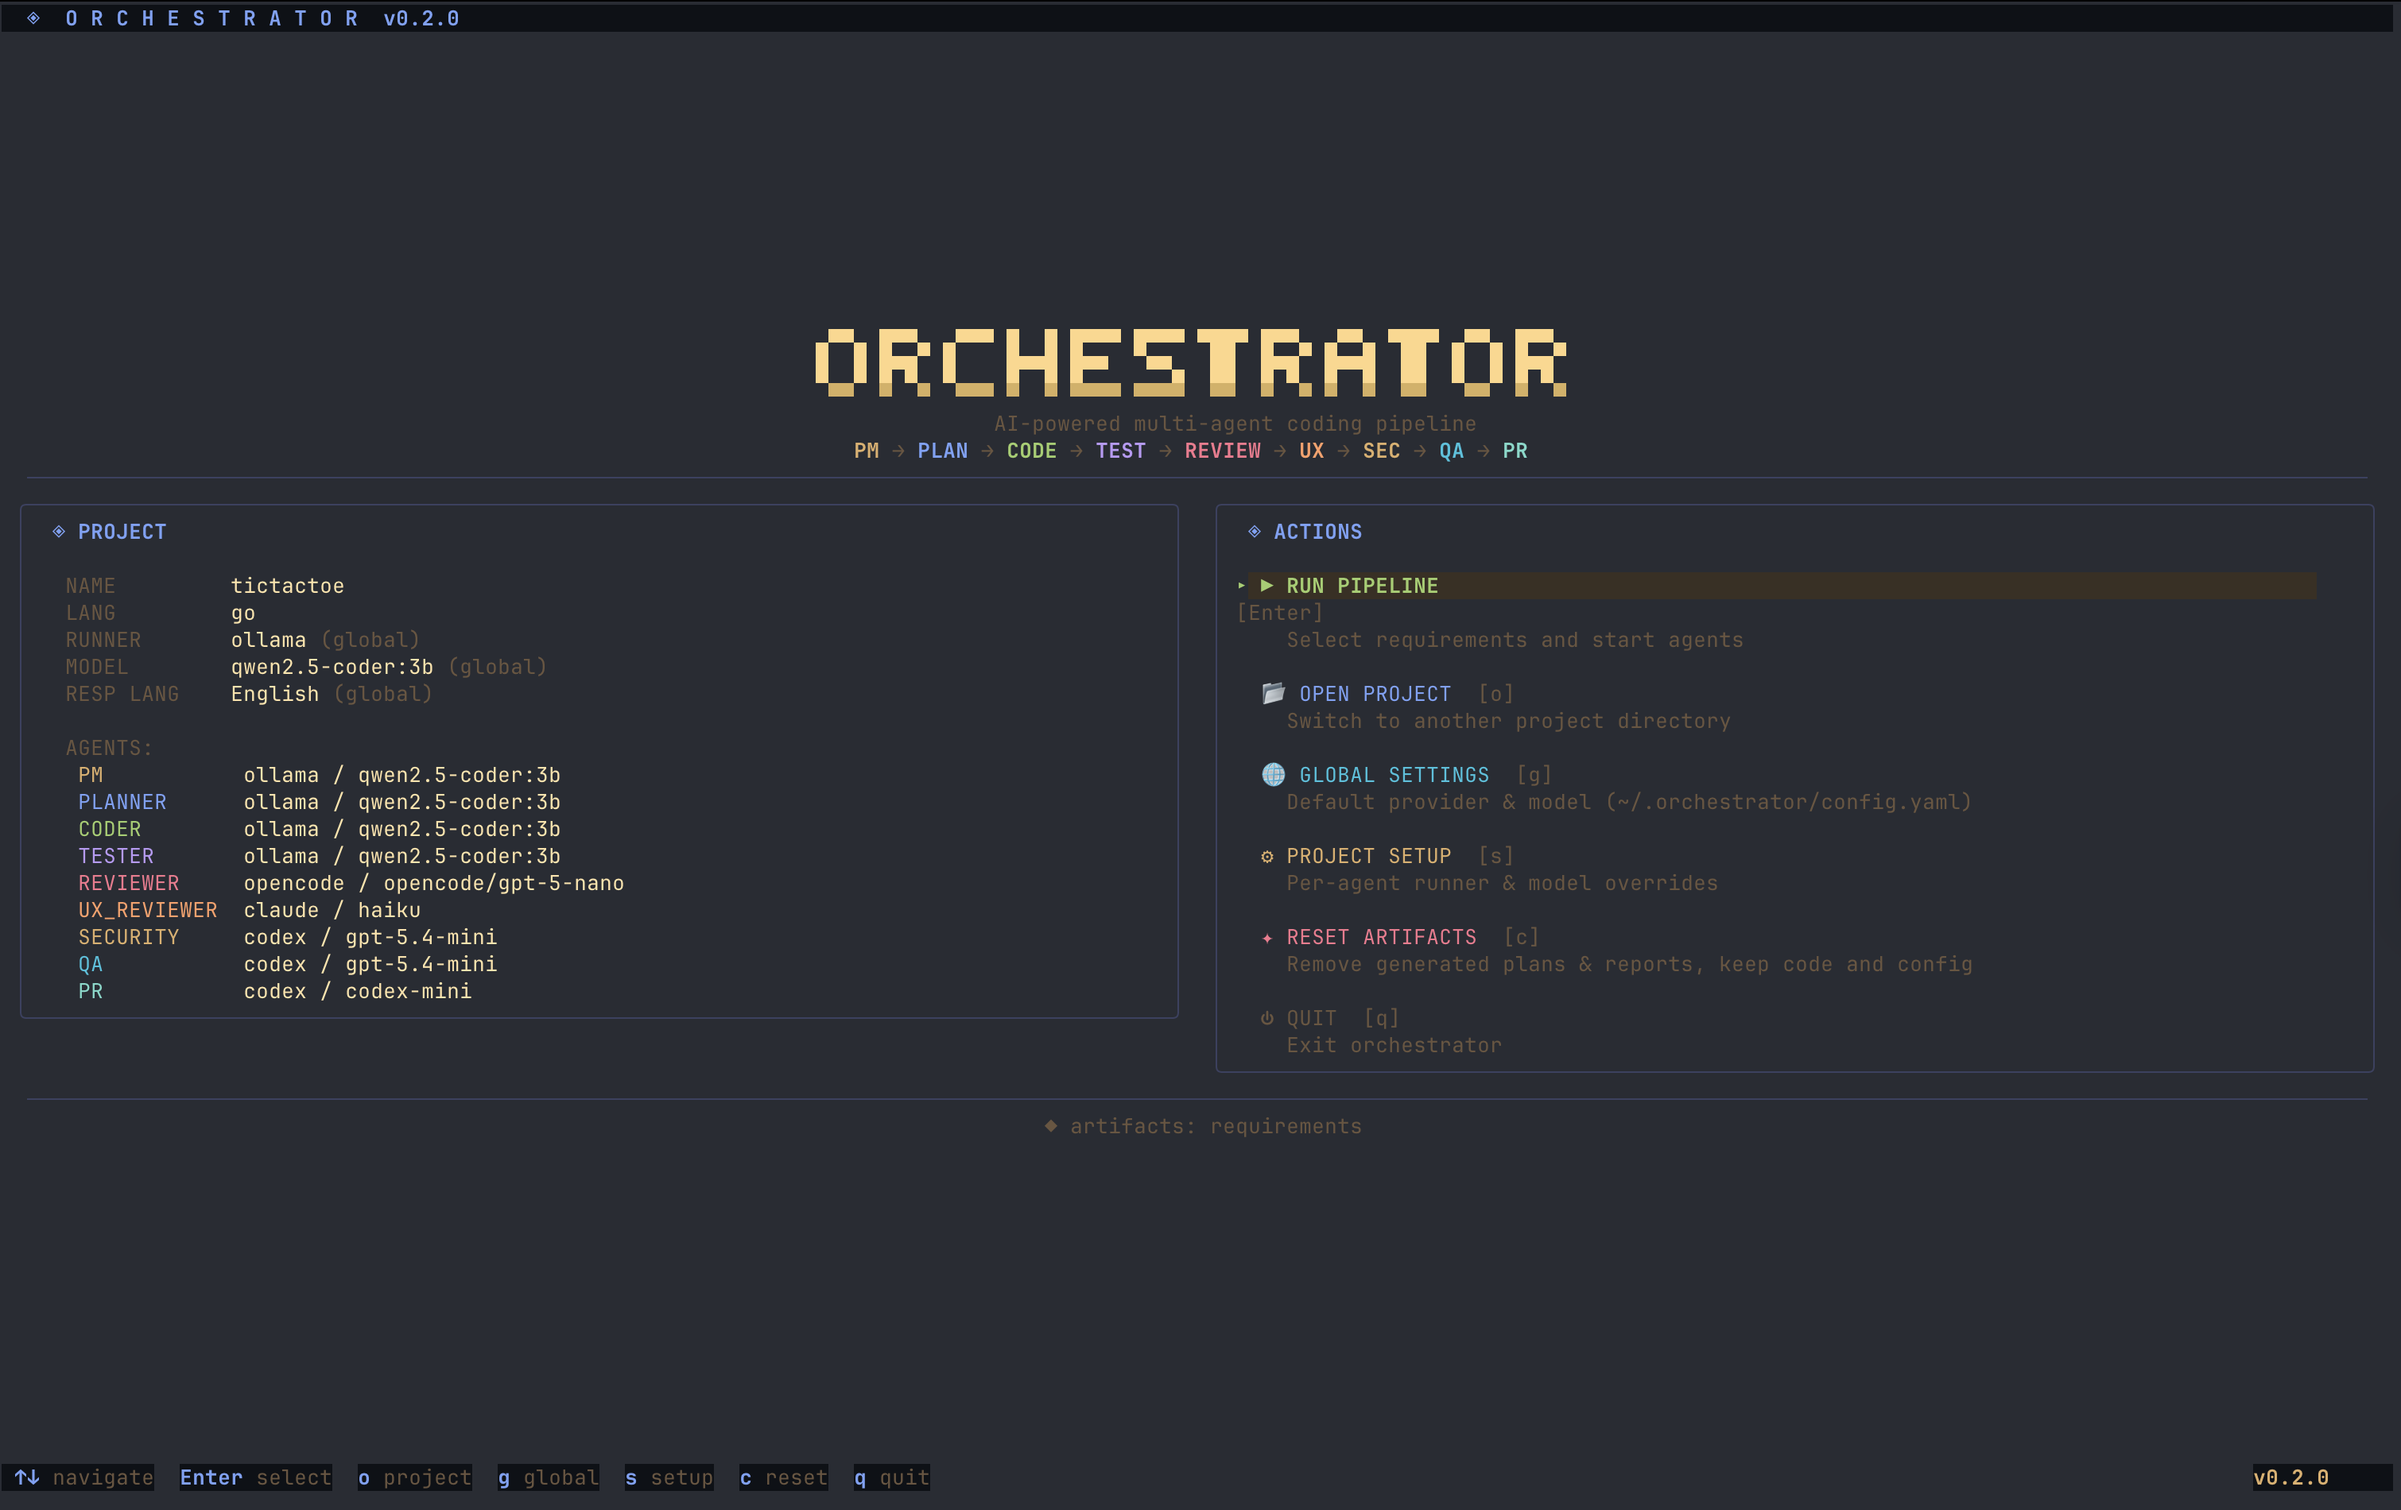
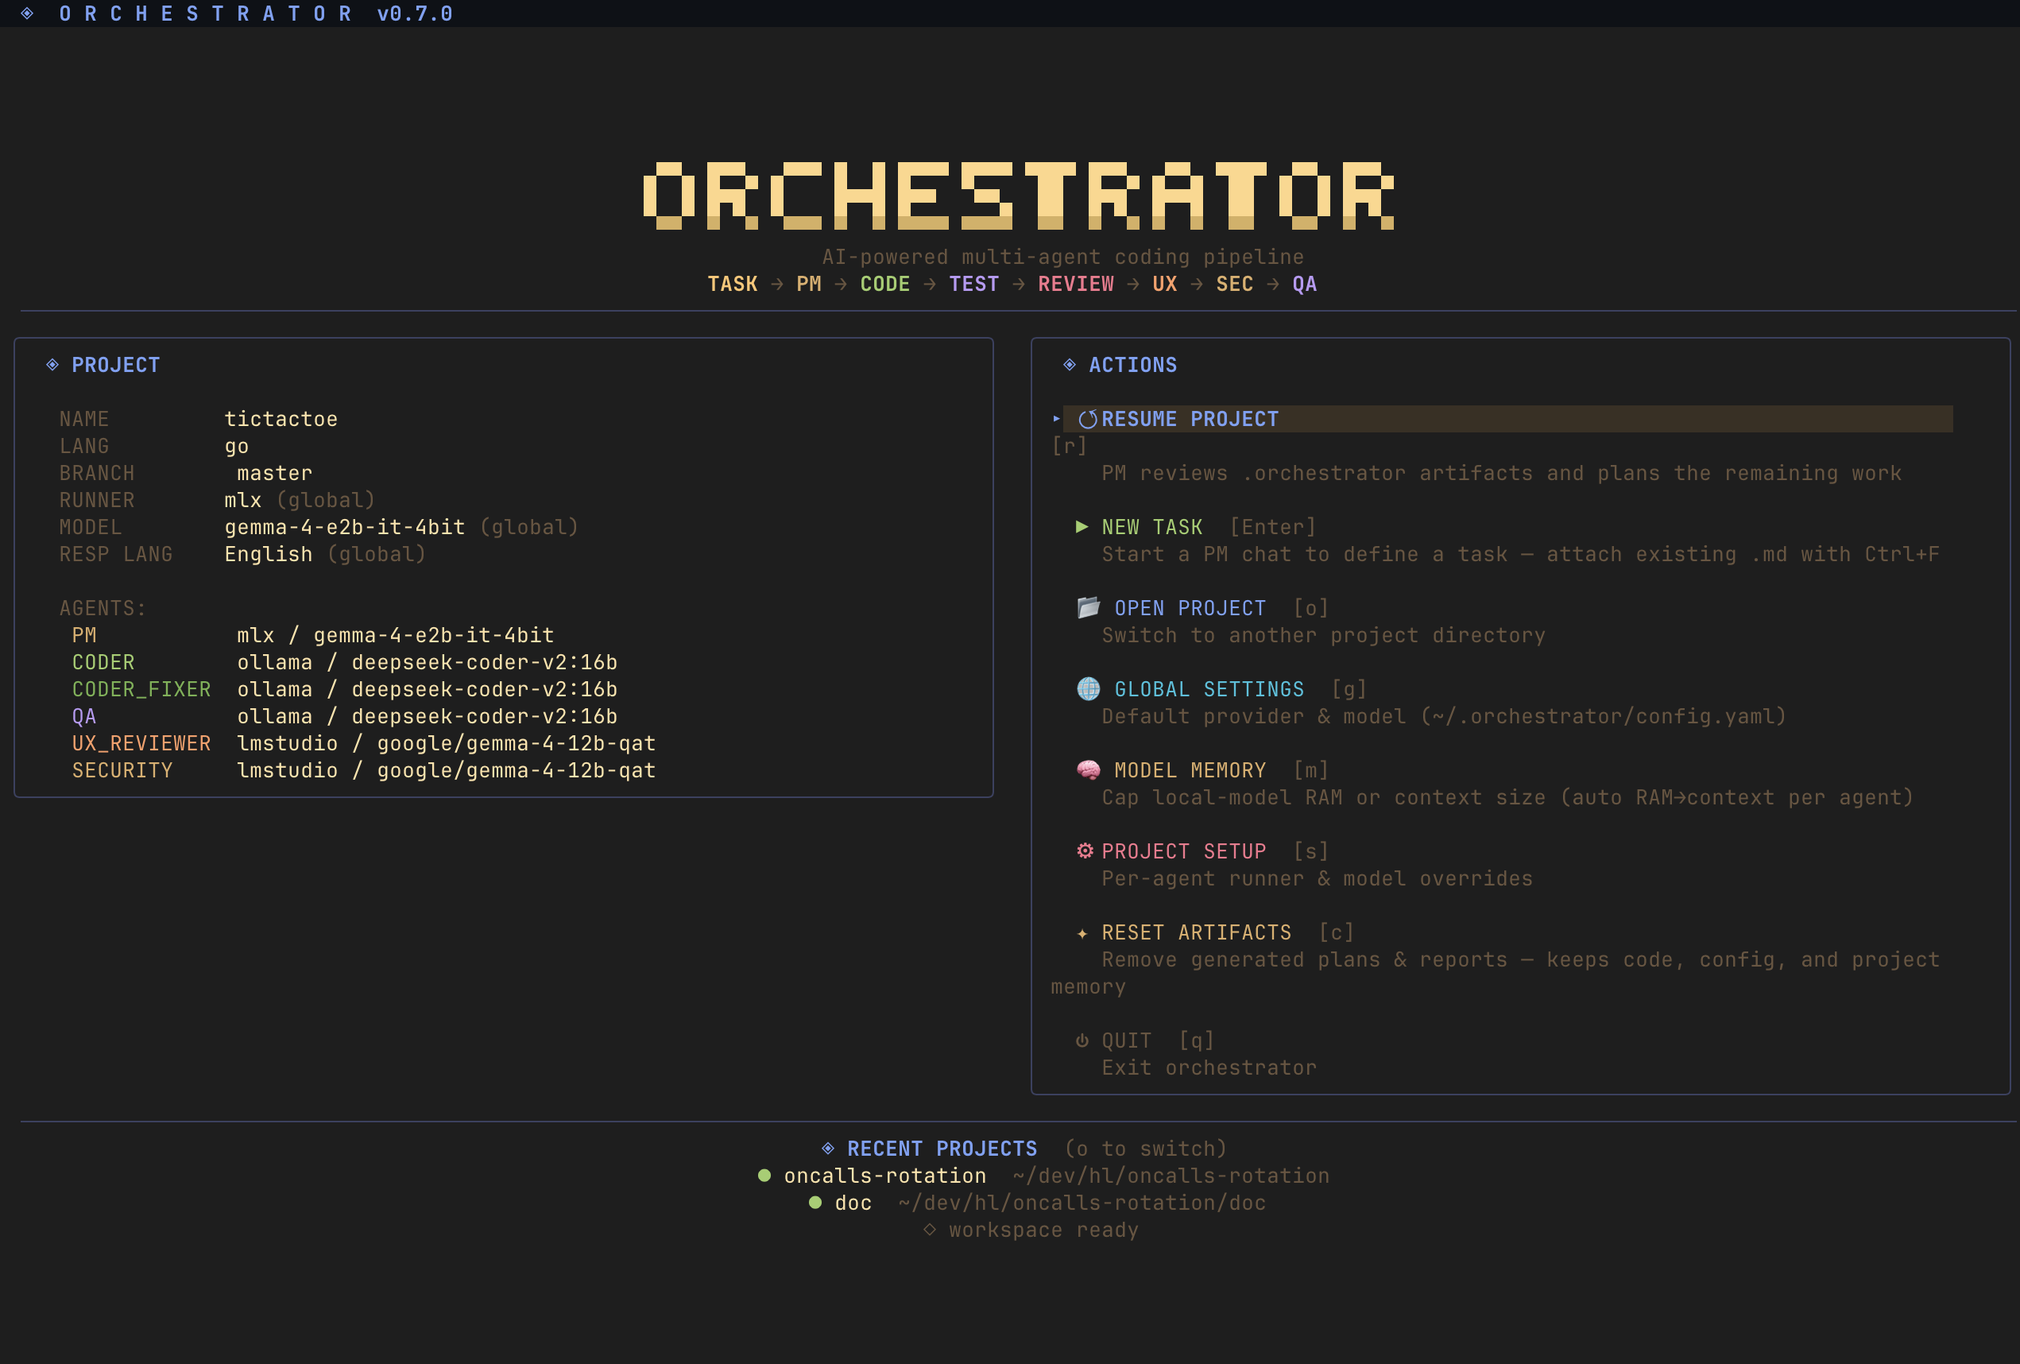
docs: refresh screenshots and update README/changelog for 0.9 release

diff --git a/README.md b/README.md
@@ -63,11 +63,7 @@ See [`doc/tui.md`](doc/tui.md) for a full reference of every panel, status indic
 </p>
 
 <p align="center">
-  <img src="doc/images/tester.png" width="700" alt="QA — Test Generation">
-</p>
-
-<p align="center">
-  <img src="doc/images/reviewer.png" width="700" alt="QA — Code Review">
+  <img src="doc/images/artifact-viewer.png" width="700" alt="Artifact / File Viewer">
 </p>
 
 <p align="center">
@@ -105,6 +101,10 @@ Each agent can use a different runner and model — configure globally (`~/.orch
   <img src="doc/images/project-settings.png" width="700" alt="Project Settings">
 </p>
 
+<p align="center">
+  <img src="doc/images/model-memory.png" width="700" alt="Model Memory — local-model RAM / context cap">
+</p>
+
 ### Layered Configuration
 
 Three-layer config with sensible defaults:
@@ -112,6 +112,10 @@ Three-layer config with sensible defaults:
 1. **Built-in defaults** — works out of the box for Go projects
 2. **Global user config** (`~/.orchestrator/config.yaml`) — your preferred models and runners
 3. **Project config** (`.orchestrator/project.yaml`) — project-specific overrides (language, test commands, scoping)
+
+### Local Model Memory Cap
+
+When running local models (Ollama, LM Studio, MLX), the **Model Memory** screen lets you bound resource use: pick a **RAM limit** (auto-converted to a per-agent context window based on the model and your system RAM) or a fixed **context-token limit** applied verbatim to every agent. This keeps large local models from exhausting memory.
 
 ### Skills System
 
